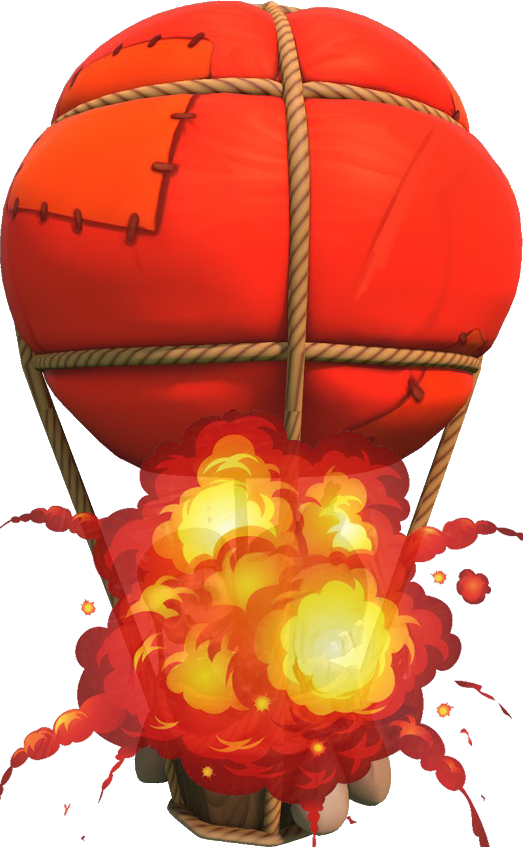
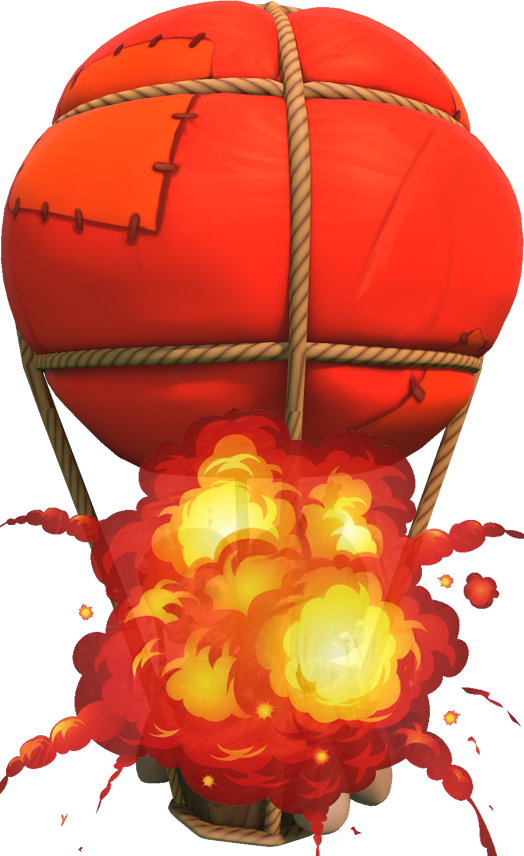
up

diff --git a/js/script.js b/js/script.js
@@ -1,22 +1,112 @@
+var random = 1;
+
 document.getElementById('gioca').addEventListener('click',
 function() {
   // document.getElementById('sipariodx').classList.add('sipario-dx');
   // document.getElementById('sipariosx').classList.add('sipario-sx');
-
-  // document.getElementById('helicopter').classList.add('animazione-sx');
-  // document.getElementById('eagle').classList.add('animazione-sx');
-  // document.getElementById('gunman1').classList.add('animazione-sx');
-  // document.getElementById('jet').classList.add('animazione-centro');
-  // document.getElementById('black-eagle').classList.add('animazione-centro');
-  // document.getElementById('gunman2').classList.add('animazione-centro');
-  // document.getElementById('air-balloon').classList.add('animazione-dx');
-  // document.getElementById('owl').classList.add('animazione-dx');
-  // document.getElementById('gunman3').classList.add('animazione-dx');
-}
-);
-document.getElementById('gunman2').addEventListener('click',
+  document.getElementById('bersaglio1').classList.add('animazione-sx');
+  document.getElementById('bersaglio2').classList.add('animazione-centro');
+  document.getElementById('bersaglio3').classList.add('animazione-dx');
+  document.getElementById('bersaglio4').classList.add('animazione-sx');
+  document.getElementById('bersaglio5').classList.add('animazione-centro');
+  document.getElementById('bersaglio6').classList.add('animazione-dx');
+  document.getElementById('bersaglio7').classList.add('animazione-sx');
+  document.getElementById('bersaglio8').classList.add('animazione-centro');
+  document.getElementById('bersaglio9').classList.add('animazione-dx');
+  for (var i = 0; i <=9; i++) {
+    setTimeout(function(){
+      random = Math.floor(Math.random() * 9 + 1);
+      document.getElementById('bersaglio' + random).classList.remove('bersaglio-colpito-' + random)
+      document.getElementById('bersaglio' + random).classList.add('rotate')
+      document.getElementById('bersaglio' + random).classList.remove('transparent')
+    }, (i * 2500));
+    setTimeout(function(){
+      document.getElementById('bersaglio' + random).classList.add('transparent')
+    }, 1500 + (i * 2500));
+    setTimeout(function(){
+      document.getElementById('bersaglio' + random).classList.remove('rotate')
+    }, 2300 + (i * 2500));
+  }
+  for (var i = 0; i <=9; i++) {
+    setTimeout(function(){
+      random = Math.floor(Math.random() * 9 + 1);
+  document.getElementById('bersaglio' + random).classList.remove('bersaglio-colpito-' + random)
+      document.getElementById('bersaglio' + random).classList.add('rotate')
+      document.getElementById('bersaglio' + random).classList.remove('transparent')
+    }, 25000 + (i * 2000));
+    setTimeout(function(){
+      document.getElementById('bersaglio' + random).classList.add('transparent')
+    }, 25000 + 1000 + (i * 2000));
+    setTimeout(function(){
+      document.getElementById('bersaglio' + random).classList.remove('rotate')
+    }, 25000 + 1800 + (i * 2000));
+  }
+  for (var i = 0; i <=9; i++) {
+    setTimeout(function(){
+      random = Math.floor(Math.random() * 9 + 1);
+      document.getElementById('bersaglio' + random).classList.remove('bersaglio-colpito-' + random)
+      document.getElementById('bersaglio' + random).classList.add('rotate')
+      document.getElementById('bersaglio' + random).classList.remove('transparent')
+    }, 45000 + (i * 1700));
+    setTimeout(function(){
+      document.getElementById('bersaglio' + random).classList.add('transparent')
+    }, 45000 + 700 + (i * 1700));
+    setTimeout(function(){
+      document.getElementById('bersaglio' + random).classList.remove('rotate')
+    }, 45000 + 1500 + (i * 1700));
+  }
+});
+document.getElementById('bersaglio1').addEventListener('click',
 function() {
-  document.getElementById('gunman2').classList.add('rotate');
+  console.log(random);
+  document.getElementById('bersaglio1').classList.add('bersaglio-colpito-1');
 
-}
-);
+});
+document.getElementById('bersaglio2').addEventListener('click',
+function() {
+  console.log(random);
+  document.getElementById('bersaglio2').classList.add('bersaglio-colpito-2');
+
+});
+document.getElementById('bersaglio3').addEventListener('click',
+function() {
+  console.log(random);
+  document.getElementById('bersaglio3').classList.add('bersaglio-colpito-3');
+
+});
+document.getElementById('bersaglio4').addEventListener('click',
+function() {
+  console.log(random);
+  document.getElementById('bersaglio4').classList.add('bersaglio-colpito-4');
+
+});
+document.getElementById('bersaglio5').addEventListener('click',
+function() {
+  console.log(random);
+  document.getElementById('bersaglio5').classList.add('bersaglio-colpito-5');
+
+});
+document.getElementById('bersaglio6').addEventListener('click',
+function() {
+  console.log(random);
+  document.getElementById('bersaglio6').classList.add('bersaglio-colpito-6');
+
+});
+document.getElementById('bersaglio7').addEventListener('click',
+function() {
+  console.log(random);
+  document.getElementById('bersaglio7').classList.add('bersaglio-colpito-7');
+
+});
+document.getElementById('bersaglio8').addEventListener('click',
+function() {
+  console.log(random);
+  document.getElementById('bersaglio8').classList.add('bersaglio-colpito-8');
+
+});
+document.getElementById('bersaglio9').addEventListener('click',
+function() {
+  console.log(random);
+  document.getElementById('bersaglio9').classList.add('bersaglio-colpito-9');
+
+});

diff --git a/css/style.css b/css/style.css
@@ -14,6 +14,10 @@ body {
   position: relative;
 }
 
+.crosshair {
+  cursor: crosshair;
+}
+
 body > img,
 body > div {
   position: absolute;
@@ -89,9 +93,8 @@ body > div {
 }
 
 .bersaglio {
-  transform: translate(-50%, -50%);
-  /* transform: translateX(-50%) rotateY(180deg);
-  backface-visibility: hidden; */
+  transform: translate(-50%, -50%) rotateY(180deg);
+  backface-visibility: hidden;
   background-size: contain;
   background-repeat: no-repeat;
   background-position: center;
@@ -105,55 +108,55 @@ body > div {
 .ground {
   top: 76%;
 }
-#helicopter {
+.bersaglio1 {
   background-image: url(../img/helicopter.png);
   left: 20%;
   width: 25%;
   height: 19%;
 }
-#jet {
-  background-image: url(../img/jet.png);
+.bersaglio2 {
+  background-image: url(../img/jet2.png);
   left: 50%;
-  width: 25%;
-  height: 16%;
+  width: 23%;
+  height: 20%;
 }
-#air-balloon {
+.bersaglio3 {
   background-image: url(../img/air-balloon.png);
   left: 80%;
-  width: 15%;
-  height: 35%;
+  width: 17%;
+  height: 36%;
 }
-#eagle {
+.bersaglio4 {
   background-image: url(../img/eagle.png);
   left: 20%;
   width: 22%;
   height: 18%;
 }
-#black-eagle {
-  background-image: url(../img/black-eagle.png);
+.bersaglio5 {
+  background-image: url(../img/dragon.png);
   left: 50%;
-  width: 23%;
-  height: 28%;
+  width: 16%;
+  height: 29%;
 }
-#owl {
+.bersaglio6 {
   background-image: url(../img/owl.png);
   left: 80%;
   width: 17%;
   height: 21%;
 }
-#gunman1 {
+.bersaglio7 {
   background-image: url(../img/gunman1.png);
   left: 20%;
   width: 17%;
   height: 30%;
 }
-#gunman2 {
+.bersaglio8 {
   background-image: url(../img/gunman2.png);
   left: 50%;
   height: 32%;
   width: 16%;
 }
-#gunman3 {
+.bersaglio9 {
   background-image: url(../img/gunman3.png);
   left: 80%;
   width: 10.5%;
@@ -219,6 +222,46 @@ body > div {
 }
 
 .rotate {
+  transform: translate(-50%, -50%) rotateY(0);
+  transition: transform 1s;
+}
+.transparent {
+  opacity: 0;
+  transition: opacity 0.5s;
+}
+.bersaglio-colpito-1 {
+  background-image: url(../img/helicopterx.png);
   transition: 1s;
-  transform: translateX(-50%) rotateY(0);
+}
+.bersaglio-colpito-2 {
+  background-image: url(../img/jet2x.png);
+  transition: 1s;
+}
+.bersaglio-colpito-3 {
+  background-image: url(../img/air-balloonx.png);
+  transition: 1s;
+}
+.bersaglio-colpito-4 {
+  background-image: url(../img/eaglex.png);
+  transition: 1s;
+}
+.bersaglio-colpito-5 {
+  background-image: url(../img/dragonx.png);
+  transition: 1s;
+}
+.bersaglio-colpito-6 {
+  background-image: url(../img/owlx.png);
+  transition: 1s;
+}
+.bersaglio-colpito-7 {
+  background-image: url(../img/gunman1x.png);
+  transition: 1s;
+}
+.bersaglio-colpito-8 {
+  background-image: url(../img/gunman2x.png);
+  transition: 1s;
+}
+.bersaglio-colpito-9 {
+  background-image: url(../img/gunman3x.png);
+  transition: 1s;
 }

diff --git a/index.html b/index.html
@@ -7,22 +7,22 @@
   <link rel="stylesheet" href="css/style.css">
   <title>GunSlinger</title>
 </head>
-<body>
+<body id="body">
   <div id="gioca" class="">
     Gioca
   </div>
   <img alt="" src="img/sipariotop.png" id="sipariotop">
   <!-- <img alt="" src="img/sipariosx.png" id="sipariosx">
   <img alt="" src="img/sipariodx.png" id="sipariodx"> -->
-  <div id="helicopter" class="bersaglio aircraft"></div>
-  <div id="jet" class="bersaglio aircraft"></div>
-  <div id="air-balloon" class="bersaglio aircraft"></div>
-  <div id="eagle" class="bersaglio bird"></div>
-  <div id="black-eagle" class="bersaglio bird"></div>
-  <div id="owl" class="bersaglio bird"></div>
-  <div id="gunman1" class="ground bersaglio"></div>
-  <div id="gunman2" class="ground bersaglio"></div>
-  <div id="gunman3" class="ground bersaglio"></div>
+  <div id="bersaglio1" class="bersaglio aircraft bersaglio1"></div>
+  <div id="bersaglio2" class="bersaglio aircraft bersaglio2"></div>
+  <div id="bersaglio3" class="bersaglio aircraft bersaglio3"></div>
+  <div id="bersaglio4" class="bersaglio bird bersaglio4"></div>
+  <div id="bersaglio5" class="bersaglio bird bersaglio5"></div>
+  <div id="bersaglio6" class="bersaglio bird bersaglio6"></div>
+  <div id="bersaglio7" class="ground bersaglio bersaglio7"></div>
+  <div id="bersaglio8" class="ground bersaglio bersaglio8"></div>
+  <div id="bersaglio9" class="ground bersaglio bersaglio9"></div>
 
   <script src="js/script.js" charset="utf-8"></script>
 </body>
